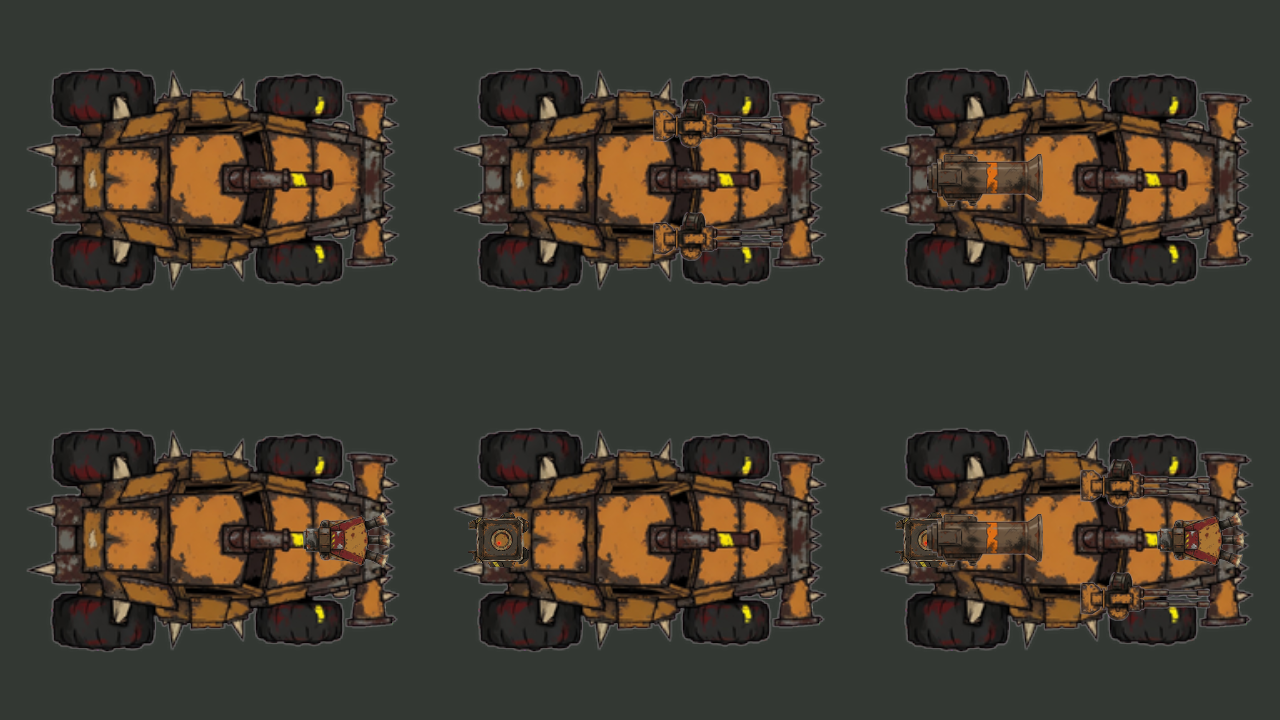
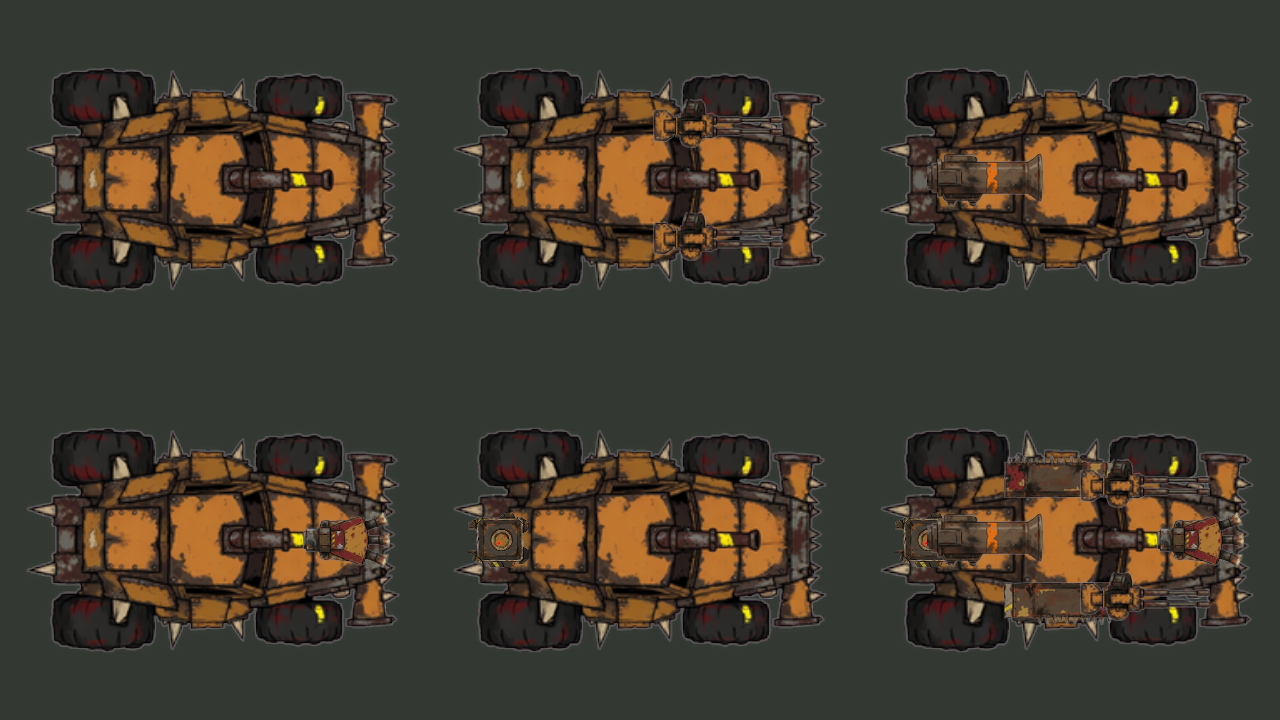
feat(art): armour plating - 3 agy tier plates drawn as flank plates by installed armour tier (Car.armorTier from garage bonus); hammer v1 not used

Changed region(s): [[0.7812, 0.7944, 0.875, 0.8861], [0.7812, 0.6111, 0.875, 0.7028]]

diff --git a/deathride/core/src/main/kotlin/dev/deathride/core/Cars.kt b/deathride/core/src/main/kotlin/dev/deathride/core/Cars.kt
@@ -45,8 +45,11 @@ object CarCatalog {
     val all=Content.table("cars").map { CarClass(Content.table("cars/"+it.getValue("id")).single()+it) }
     init { require(upgradeLimits.keys==all.map{it.id}.toSet()) }
     val json=all.joinToString(",","[","]") { it.json }
+    private val armorPart=Parts.all.indexOfFirst{it.id=="armor"}
+    /** Armour tier shown on the car, from the armour bonus the garage tiers add; 0 without bonuses. */
+    fun armorTierOf(bonuses: IntArray?): Int { val per=Parts.all[armorPart].bonuses[3];return if(bonuses==null || per<=0)0 else (bonuses[3]/per).coerceIn(0,Parts.all[armorPart].maxTier) }
     fun apply(car: Car,index: Int,bonuses: IntArray?=null)=apply(car,all[index],bonuses)
-    fun apply(car: Car,type: CarClass,bonuses: IntArray?=null) { car.aiBossHealthScale=1.0;for(i in statNames.indices)car.effectiveStats[i]=type.stat(statNames[i],bonuses);car.carClass=type; car.ability.definition=type.ability;car.spec=type.spec(bonuses);car.maxHp=CombatRules["maxHp"]*CarLoadouts.forCar(type).hullScale;car.startingCondition=1.0;car.utilityMask=0;car.armorReduction=type.derive("armorReduction",bonuses);car.weaponSlots=type.derive("weaponSlots",bonuses).toInt() }
+    fun apply(car: Car,type: CarClass,bonuses: IntArray?=null) { car.aiBossHealthScale=1.0;for(i in statNames.indices)car.effectiveStats[i]=type.stat(statNames[i],bonuses);car.carClass=type; car.ability.definition=type.ability;car.spec=type.spec(bonuses);car.maxHp=CombatRules["maxHp"]*CarLoadouts.forCar(type).hullScale;car.startingCondition=1.0;car.utilityMask=0;car.armorTier=armorTierOf(bonuses);car.armorReduction=type.derive("armorReduction",bonuses);car.weaponSlots=type.derive("weaponSlots",bonuses).toInt() }
 }
 
 /** Load-time audit data; deliberately never consulted by the fixed simulation step. */

diff --git a/deathride/game/src/main/kotlin/dev/deathride/game/MountPainter.kt b/deathride/game/src/main/kotlin/dev/deathride/game/MountPainter.kt
@@ -64,7 +64,7 @@ class MountPainter(private val art: AtlasArt?,private val pixel: ()->Texture?,va
                 MountKind.SCATTER->scatter(sprite,a,kick,flash)
                 MountKind.MINE->mine(sprite,a,if(wreck)-1f else MountAnim.pop(age))
                 MountKind.SPIKES->spikes(sprite,a,kick,flash)
-                MountKind.ARMOR->{}
+                MountKind.ARMOR->armor(a,MountLoadout.armorTier(mask))
             }
         }
         batch.setColor(1f,1f,1f,1f)
@@ -80,9 +80,9 @@ class MountPainter(private val art: AtlasArt?,private val pixel: ()->Texture?,va
         bt.draw(t,px-ww*.5f,py-hh*.5f,ww*.5f,hh*.5f,ww,hh,1f,1f,deg+rot,0,0,1,1,false,false);quads++
     }
     /** Draws the owner-approved kit sprite named by the catalog row, centred on the mount point and shifted back by [backX] (recoil). */
-    private fun sprite(a: Attach,backX: Float): Boolean {
+    private fun sprite(a: Attach,backX: Float,name: String=a.sprite): Boolean {
         val k=kit?:return false;val bt=b?:return false
-        val r=k.region(a.sprite)?:return false
+        val r=k.region(name)?:return false
         val w=unit;val h=unit*r.regionHeight/r.regionWidth
         val px=ox+(-backX*dc)*unit;val py=oy+(-backX*ds)*unit
         bt.setColor(tint,tint,tint,alpha)
@@ -91,6 +91,8 @@ class MountPainter(private val art: AtlasArt?,private val pixel: ()->Texture?,va
         return true
     }
 
+    /** Flank plate for the installed tier; art only, a missing kit draws nothing. */
+    private fun armor(a: Attach,tier: Int) { if(tier>0)sprite(a,0f,"armor$tier") }
     private fun rivet(art: AtlasArt?,a: Attach,kick: Float,flash: Float,spin: Float,eject: Float) {
         val ks=kick*.22f
         if(!sprite(a,ks)) {

diff --git a/deathride/desktop/src/main/kotlin/dev/deathride/desktop/MountShots.kt b/deathride/desktop/src/main/kotlin/dev/deathride/desktop/MountShots.kt
@@ -32,7 +32,7 @@ class MountShots: ApplicationAdapter() {
             for(y in 0 until 720)for(x in 0 until 1280)up.drawPixel(x,719-y,pix.getPixel(x,y))
             PixmapIO.writePNG(Gdx.files.absolute(File(out,name).absolutePath),up);pix.dispose();up.dispose()
         }
-        val everything=MountLoadout.maskOf(MountKind.RIVET,MountKind.HAMMER,MountKind.SCATTER,MountKind.MINE,MountKind.SPIKES)
+        val everything=MountLoadout.maskOf(MountKind.RIVET,MountKind.HAMMER,MountKind.SCATTER,MountKind.MINE,MountKind.SPIKES) or MountLoadout.armorMask(3)
         fun drawCar(id: String,cx: Float,cy: Float,ppm: Float,mask: Int,state: Int=0,heading: Double=0.0,grid: Boolean=false) {
             val s=CarShapes.forId(id);val l=s.lengthM.toFloat();val w=s.widthM.toFloat()
             val hp=when(state){0->1f;1->.5f;2->.2f;else->.1f}
@@ -54,6 +54,10 @@ class MountShots: ApplicationAdapter() {
                 MountLoadout.maskOf(MountKind.SCATTER) to "scatter",MountLoadout.maskOf(MountKind.MINE,MountKind.SPIKES) to "mine+spikes",everything to "all")
             for((i,c) in cells.withIndex())drawCar(id,213f+(i%3)*427f,540f-(i/3)*360f,ppm,c.first,0,0.0,grid)
             save("$tag-solo-$id.png")
+            // Armour tiers: none, 1, 2, 3 on the same car.
+            clear()
+            for(t in 0..3)drawCar(id,213f+(t%3)*427f,540f-(t/3)*360f,ppm,MountLoadout.armorMask(t),0,0.0,grid)
+            save("$tag-armor-$id.png")
             // Fire strip: rows are weapons, columns are four moments of the animation.
             clear()
             val rows=listOf(MountKind.RIVET,MountKind.HAMMER,MountKind.SCATTER,MountKind.MINE,MountKind.SPIKES)

diff --git a/deathride/game/src/test/kotlin/dev/deathride/game/MountTest.kt b/deathride/game/src/test/kotlin/dev/deathride/game/MountTest.kt
@@ -22,8 +22,8 @@ class MountCatalogTest {
         // Owner approved the agy kit 2026-10-15; every sprite name must exist in assets/mounts/kit.json and the json must say owner_approved.
         val json=java.io.File("assets/mounts/kit.json").takeIf{it.exists()}?:java.io.File("../assets/mounts/kit.json")
         val text=json.readText();assertTrue(text.contains("\"owner_approved\": true"))
-        val kitNames=Regex(""""([a-z-]+)": \{\s*"x"""").findAll(text).map{it.groupValues[1]}.toSet()
-        for(c in CarCatalog.all)for(a in MountCatalog.layered(c.id))assertTrue(a.sprite in kitNames,"${c.id} ${a.kind} names ${a.sprite}, which is not in assets/mounts/kit.json")
+        val kitNames=Regex(""""([a-z0-9-]+)": \{\s*"x"""").findAll(text).map{it.groupValues[1]}.toSet()
+        for(c in CarCatalog.all)for(a in MountCatalog.layered(c.id))assertTrue(a.sprite in kitNames || (a.sprite=="armor" && listOf("armor1","armor2","armor3").all{it in kitNames}),"${c.id} ${a.kind} names ${a.sprite}, which is not in assets/mounts/kit.json")
     }
     @Test fun layersAreSortedAndMountsStayOnTheBody() {
         for(c in CarCatalog.all) {

diff --git a/deathride/game/src/main/kotlin/dev/deathride/game/MountCatalog.kt b/deathride/game/src/main/kotlin/dev/deathride/game/MountCatalog.kt
@@ -65,11 +65,16 @@ object MountCatalog {
 
 /** Which mount kinds a car currently carries. Bits are [MountKind.ordinal]. Pure read of core state. */
 object MountLoadout {
+    /** The installed armour tier (0..3) rides in bits 8-9 of the mask; the ARMOR kind bit says there is any. */
+    const val TIER_SHIFT=8
+    fun armorTier(mask: Int)=(mask shr TIER_SHIFT) and 3
+    fun armorMask(tier: Int)=if(tier<=0)0 else (1 shl MountKind.ARMOR.ordinal) or (tier.coerceAtMost(3) shl TIER_SHIFT)
     fun mask(c: Car,combat: Combat): Int {
         var m=(1 shl MountKind.RIVET.ordinal) or (1 shl MountKind.MINE.ordinal)
         if(combat.capacity(c.id,Weapons.HAMMER)>0)m=m or (1 shl MountKind.HAMMER.ordinal)
         if(combat.capacity(c.id,Weapons.SCATTER)>0)m=m or (1 shl MountKind.SCATTER.ordinal)
         if(c.utilityMask and 1!=0)m=m or (1 shl MountKind.SPIKES.ordinal)
+        if(c.armorTier>0)m=m or (1 shl MountKind.ARMOR.ordinal) or (c.armorTier shl TIER_SHIFT)
         return m
     }
     fun has(mask: Int,kind: MountKind)=mask and (1 shl kind.ordinal)!=0

diff --git a/deathride/core/src/main/kotlin/dev/deathride/core/World.kt b/deathride/core/src/main/kotlin/dev/deathride/core/World.kt
@@ -169,7 +169,7 @@ class Car(val id: Int, track: Track) {
     var countersteerSmoothness=1.0;var previousDriftSteer=0.0
     var spec=CarSpec()
     var carClass: CarClass?=null
-    var armorReduction=0.0;var weaponSlots=1;var weaponDamageScale=1.0
+    var armorReduction=0.0;/** Installed armour part tier 0..3, for the renderer only. */var armorTier=0;var weaponSlots=1;var weaponDamageScale=1.0
     var maxHp=CombatRules["maxHp"];var startingCondition=1.0;var utilityMask=0
     var turboRemaining=0.0;var fuelRemaining=0.0;var engineScale=1.0
     val ability=AbilityState()

diff --git a/deathride/tools/art/mount_kit.py b/deathride/tools/art/mount_kit.py
@@ -13,6 +13,9 @@ KIT = {
  'scatter': "Scatter: one nose-mounted fan of three short flared barrels spreading slightly apart toward the right, on a heavy rectangular breech block. Silhouette first: a wedge that widens to the right.",
  'hammer': "Hammer: one roof-mounted heavy launcher, a single short fat tube with a wide muzzle brake at the right end and a boxy breech and orange warning band. Silhouette first: a thick horizontal cylinder with a flared mouth.",
  'mine': "Mine: one rear drop tray, a shallow square steel cradle holding one round armed proximity mine disc with a small red light, open toward the right. Silhouette first: a square tray with a round disc inside.",
+ 'armor1': "Armour plate, tier 1 (light): one long narrow flat side-armour plate, a single bent sheet of scrap steel with four crude bolts, thin and patched, a little rust. Silhouette first: a long thin rectangle about four times longer than wide, long axis horizontal.",
+ 'armor2': "Armour plate, tier 2 (reinforced): one long narrow flat side-armour plate of thick riveted steel in two overlapping layers with a yellow-black hazard stripe and a row of heavy rivets. Silhouette first: a long thin rectangle about four times longer than wide with a stepped edge, long axis horizontal.",
+ 'armor3': "Armour plate, tier 3 (heavy): one long narrow side-armour plate of massive layered welded steel with a row of short blunt spikes along its outer edge and scorched battle damage. Silhouette first: a long thick rectangle about four times longer than wide with a toothed edge, long axis horizontal.",
  'spikes': "Spikes: one bar of three bone-and-steel contact spikes of equal length on a thin mounting rail, spikes pointing to the right. Silhouette first: a comb with three parallel spikes.",
 }
 def ref():

diff --git a/deathride/tools/art/mount_kit_bundle.py b/deathride/tools/art/mount_kit_bundle.py
@@ -5,7 +5,8 @@ from pathlib import Path
 from PIL import Image
 ROOT = Path(__file__).resolve().parents[2]; ART = ROOT/'art'
 CELLS = {'rivet-needle': 'mount-proof/mount-rivet-needle-v1', 'rivet-bastion': 'mount-proof/mount-rivet-bastion-v1', 'rivet-comet': 'mount-proof/mount-rivet-comet-v1',
-         'scatter': 'mount-kit/mount-scatter-line-v1', 'hammer': 'mount-kit/mount-hammer-line-v2', 'mine': 'mount-kit/mount-mine-line-v1', 'spikes': 'mount-kit/mount-spikes-line-v1'}
+         'scatter': 'mount-kit/mount-scatter-line-v1', 'hammer': 'mount-kit/mount-hammer-line-v2', 'mine': 'mount-kit/mount-mine-line-v1', 'spikes': 'mount-kit/mount-spikes-line-v1',
+         'armor1': 'mount-kit/mount-armor1-line-v1', 'armor2': 'mount-kit/mount-armor2-line-v1', 'armor3': 'mount-kit/mount-armor3-line-v1'}
 RIVET = {'Needle': 'needle', 'Line': 'needle', 'Flint': 'needle', 'Quill': 'needle', 'Bastion': 'bastion', 'Trail': 'bastion', 'Vandal': 'bastion', 'Bulwark': 'bastion', 'Comet': 'comet', 'Kestrel': 'comet'}
 CW, CH, COLS = 128, 112, 4
 def main():
